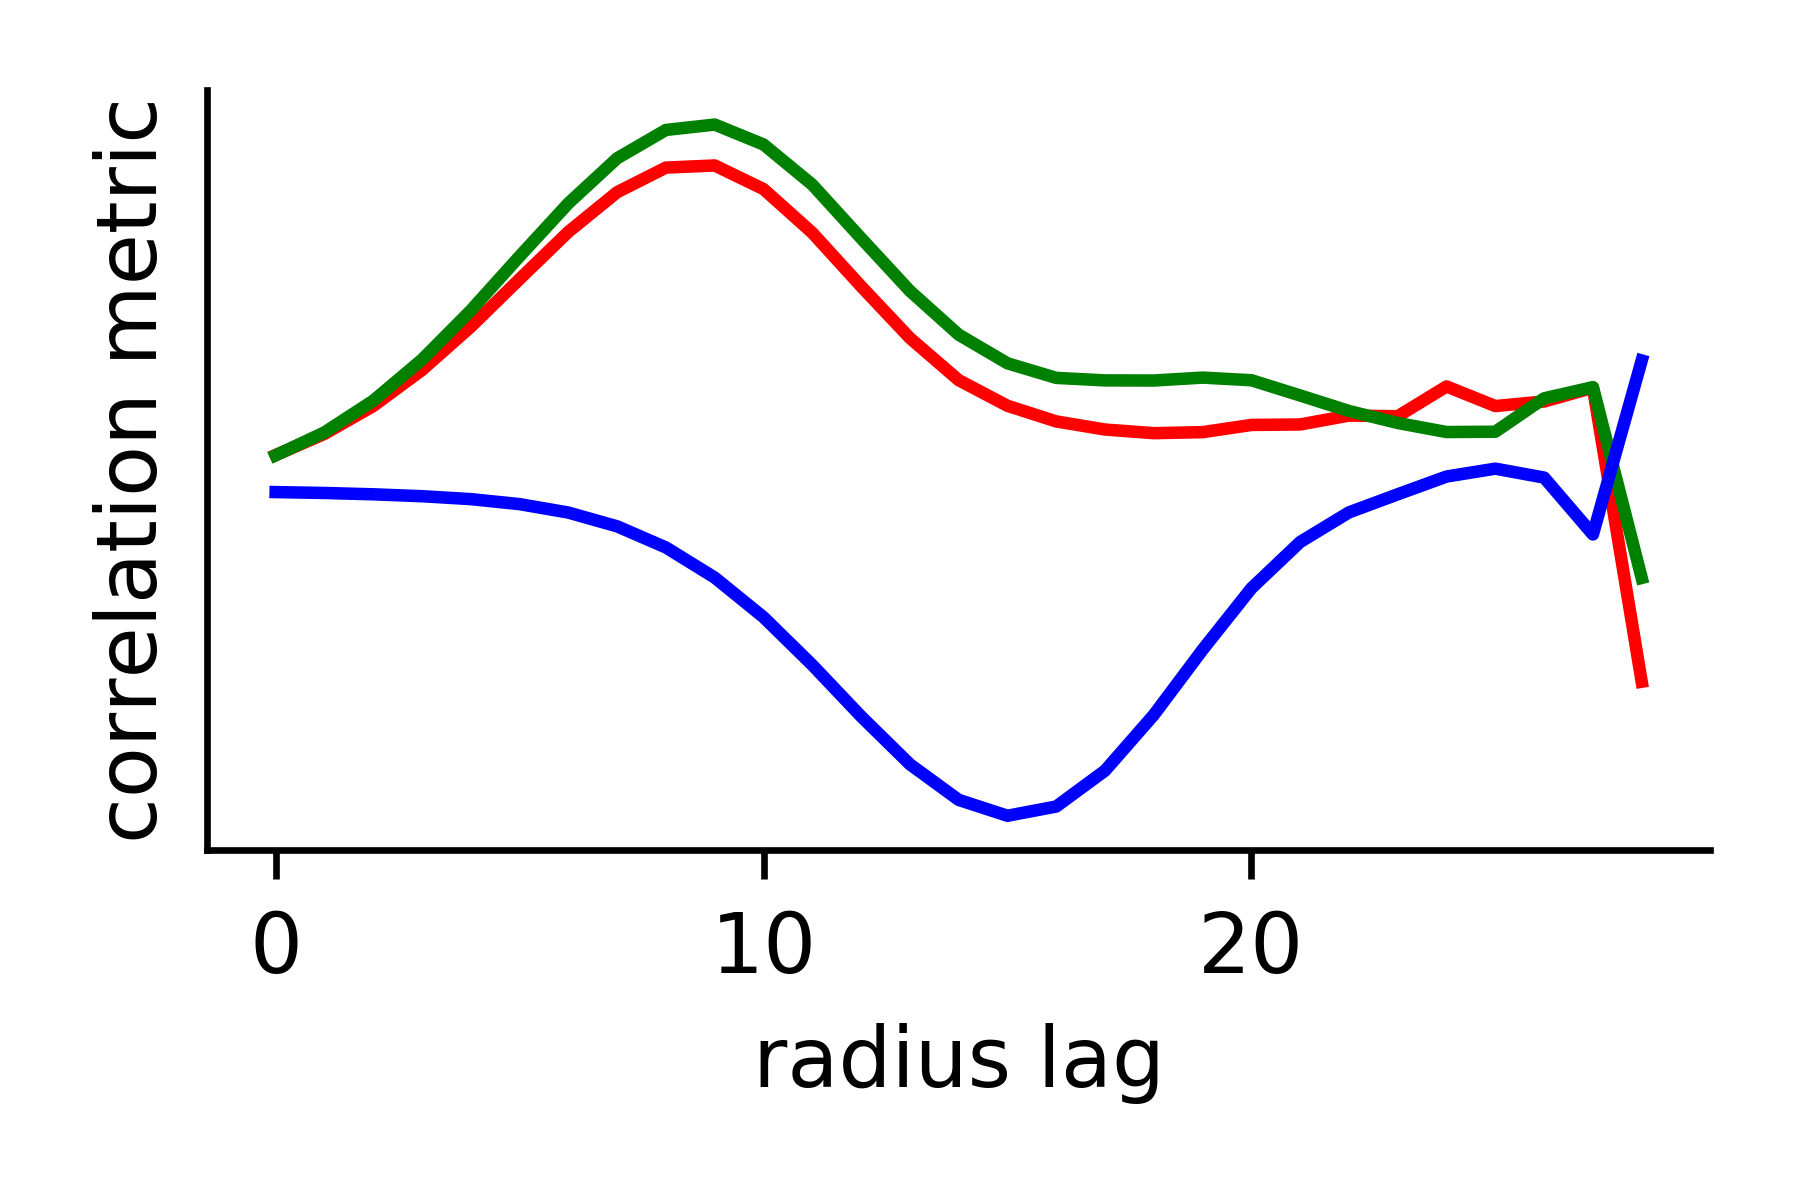
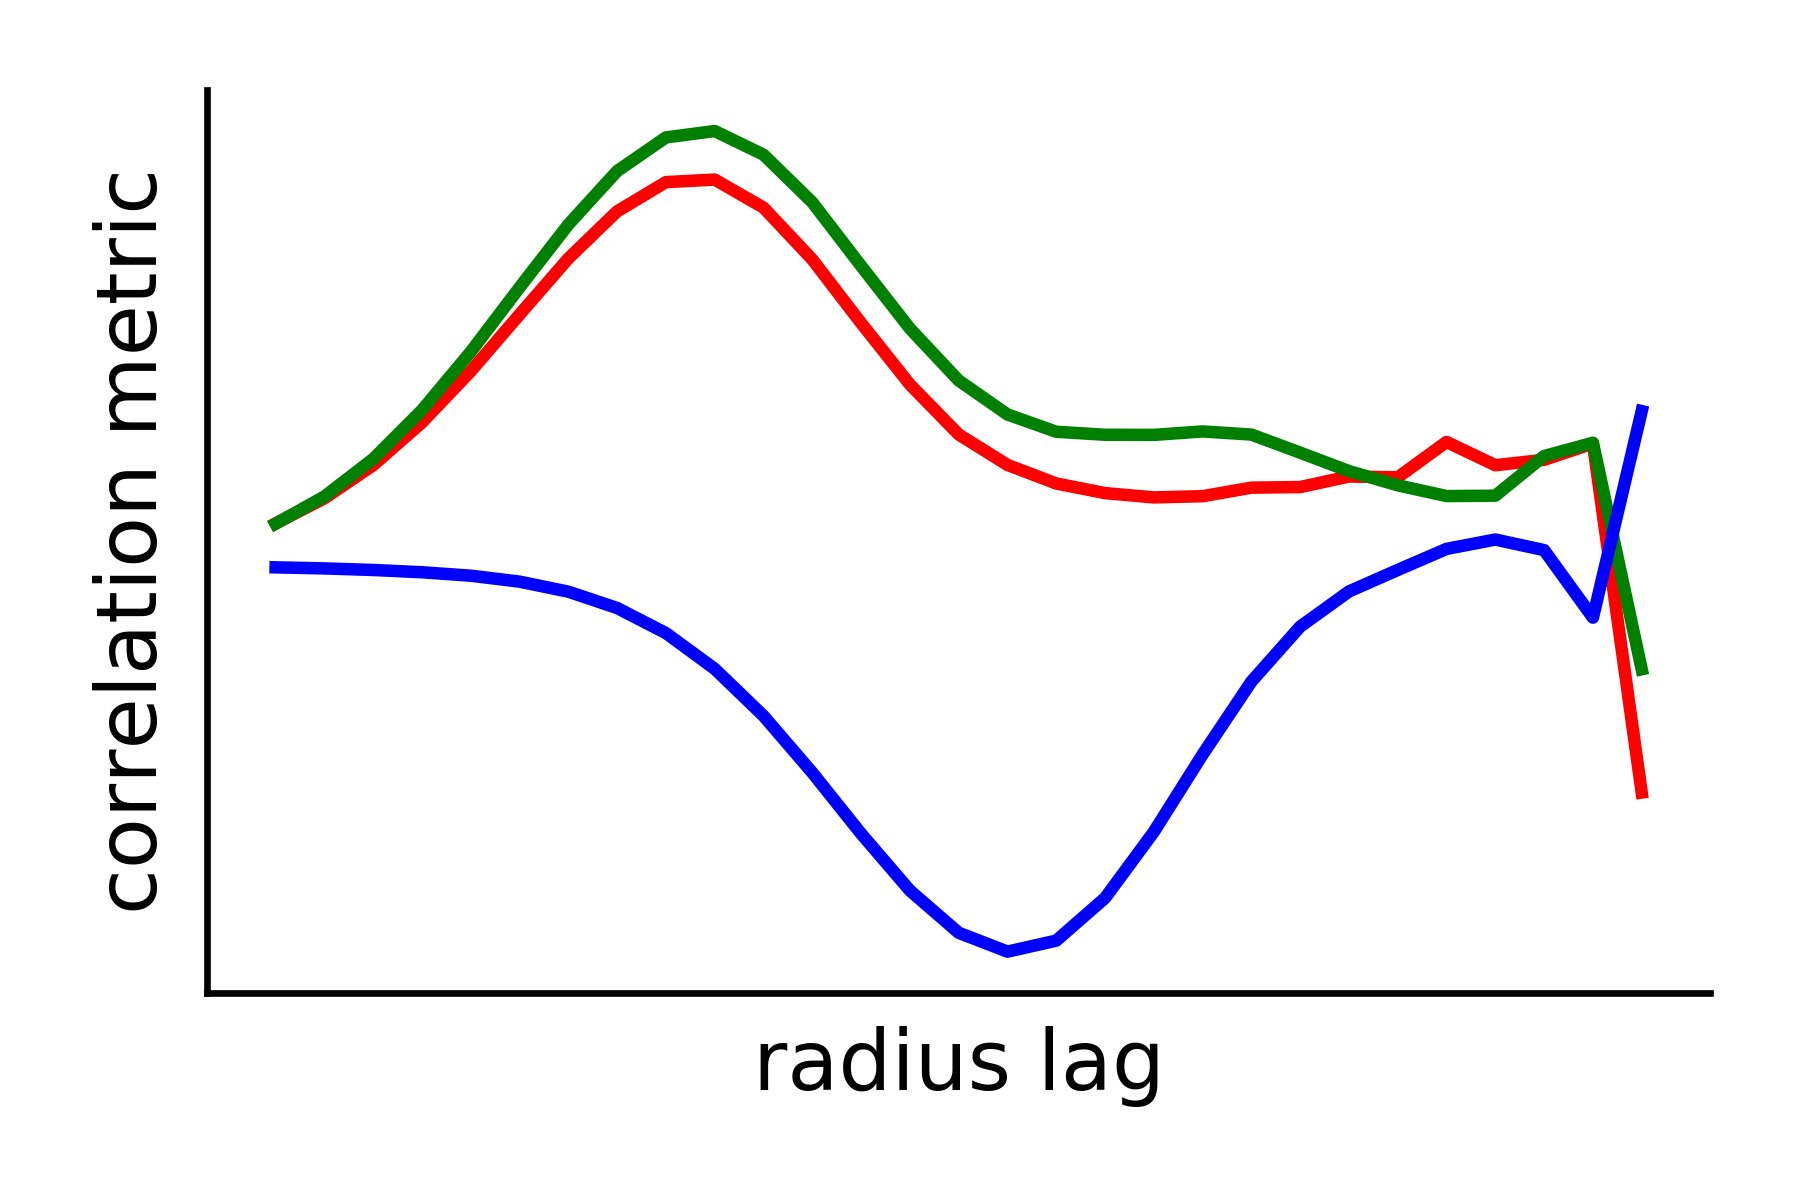
remove unused ticks

diff --git a/code/test_maskfree_polarity/demo_rgb_distr.py b/code/test_maskfree_polarity/demo_rgb_distr.py
@@ -58,7 +58,7 @@ if __name__ == '__main__':
         plt.plot(response, color=color, linestyle='solid')
     plt.xlabel('radius lag')
     plt.ylabel('correlation metric')
-#    plt.xticks([])
+    plt.xticks([])
     plt.yticks([])
     plt.gca().spines['right'].set_visible(False)
     plt.gca().spines['top'].set_visible(False)
